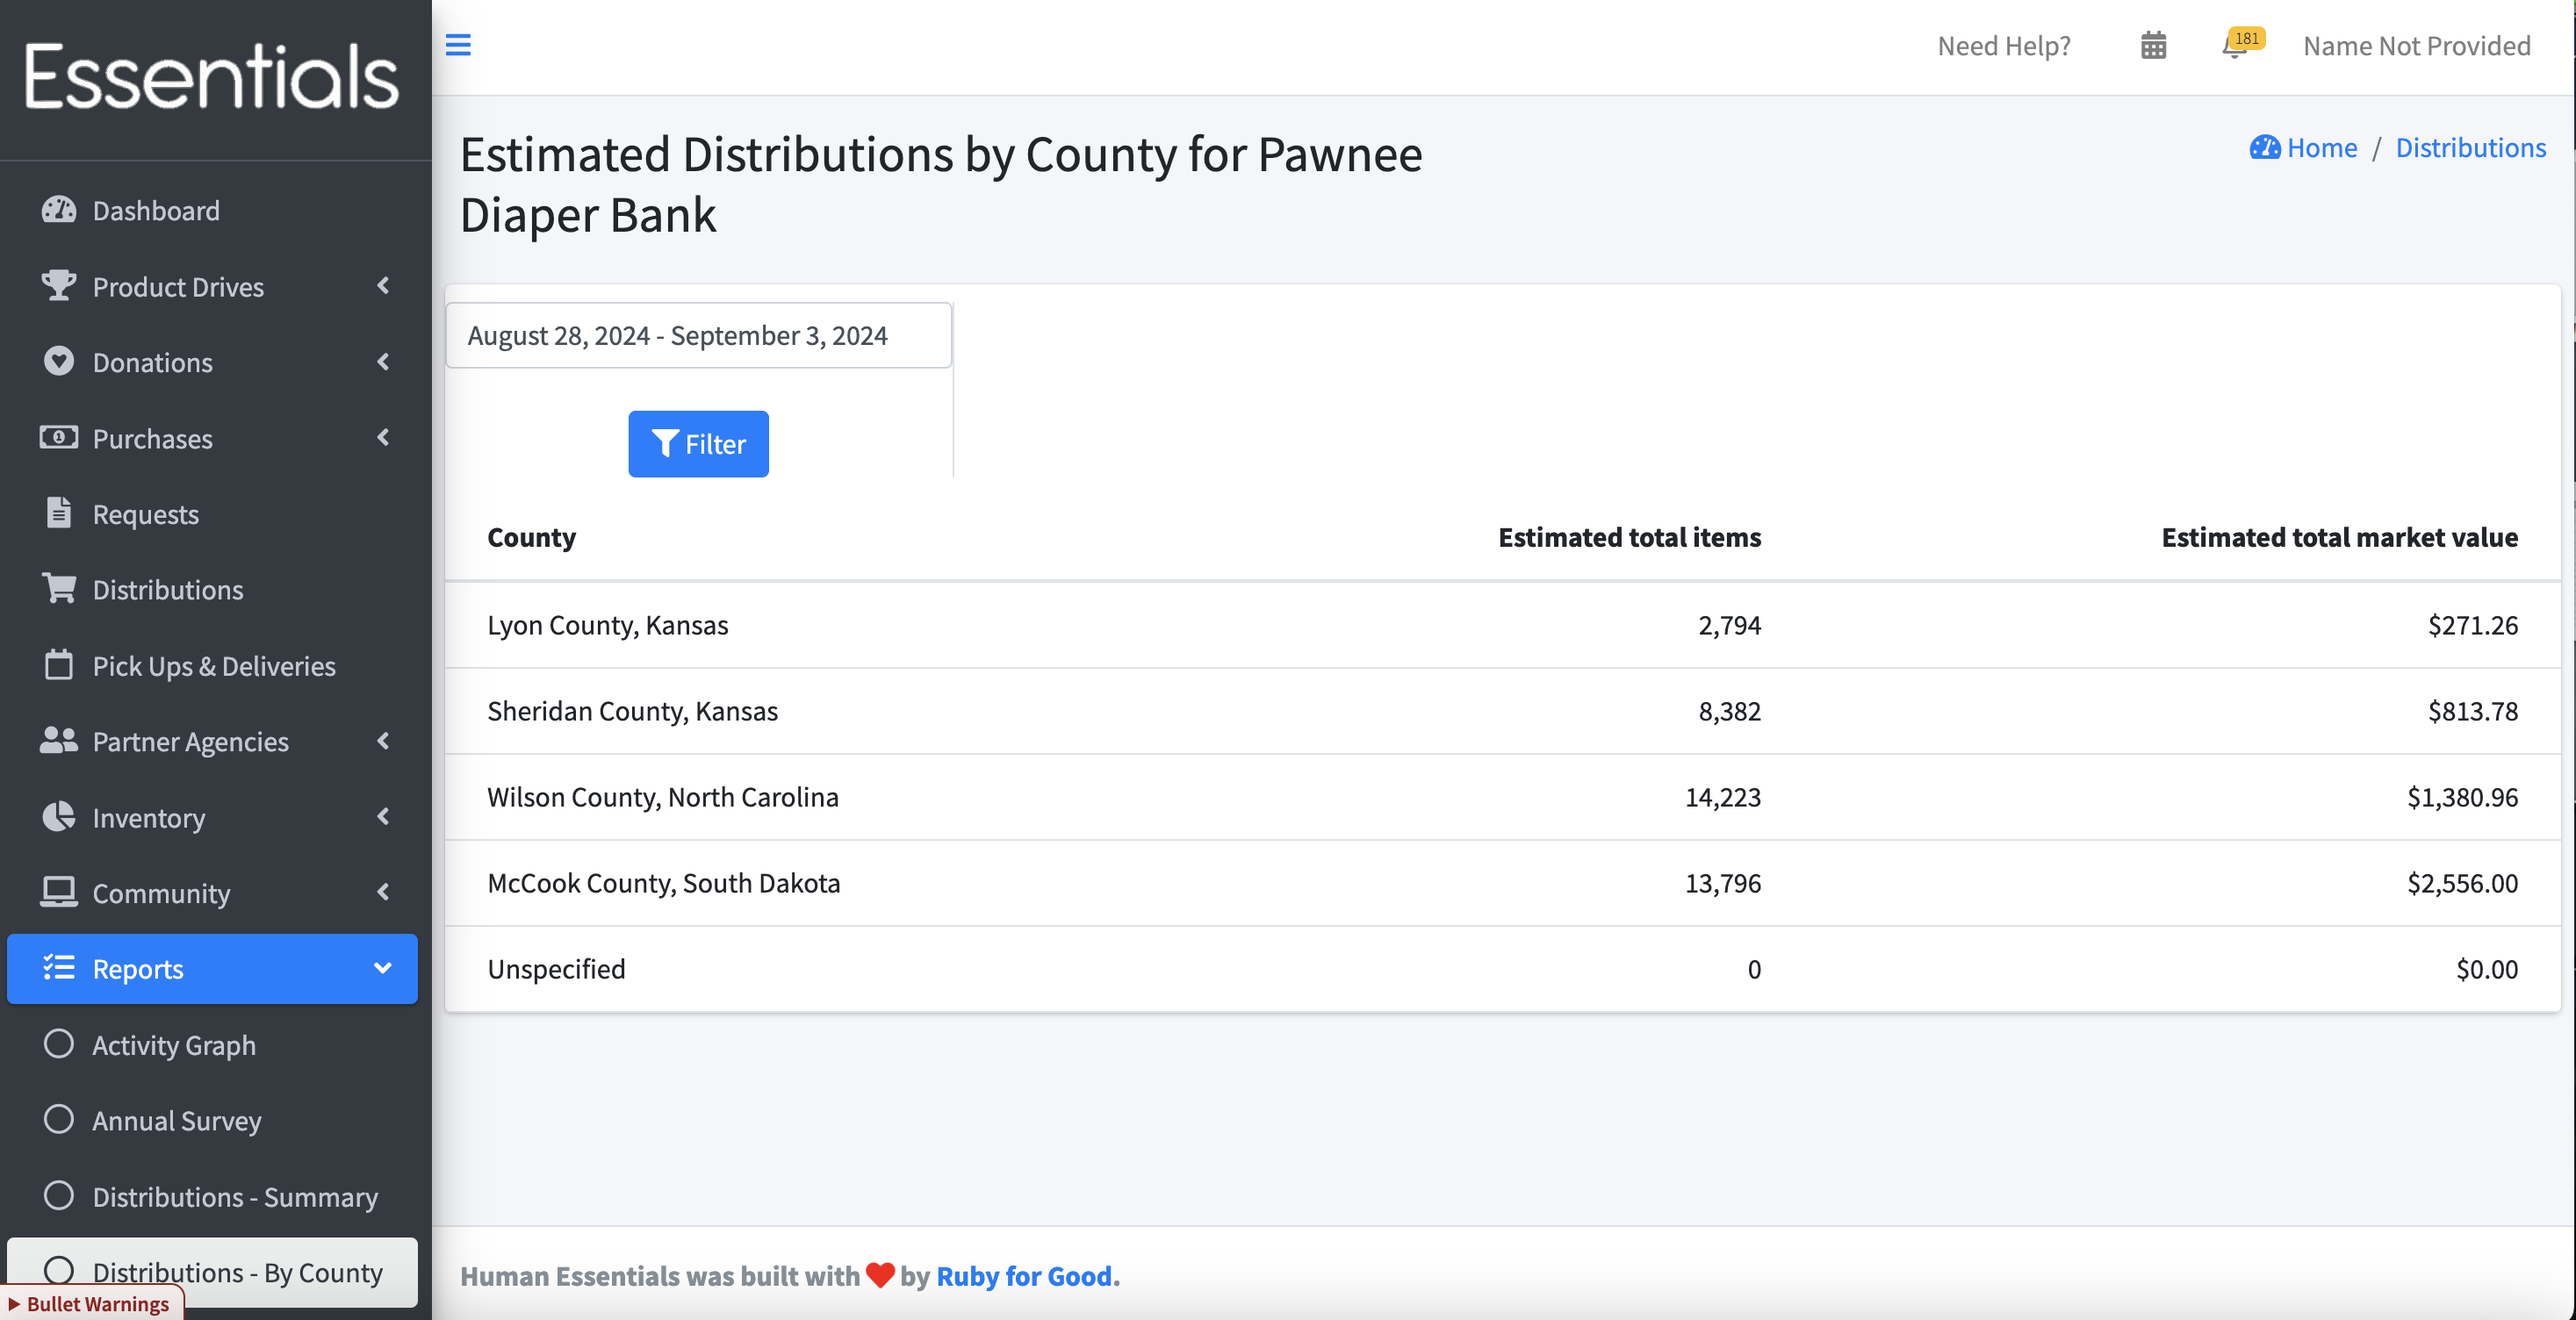
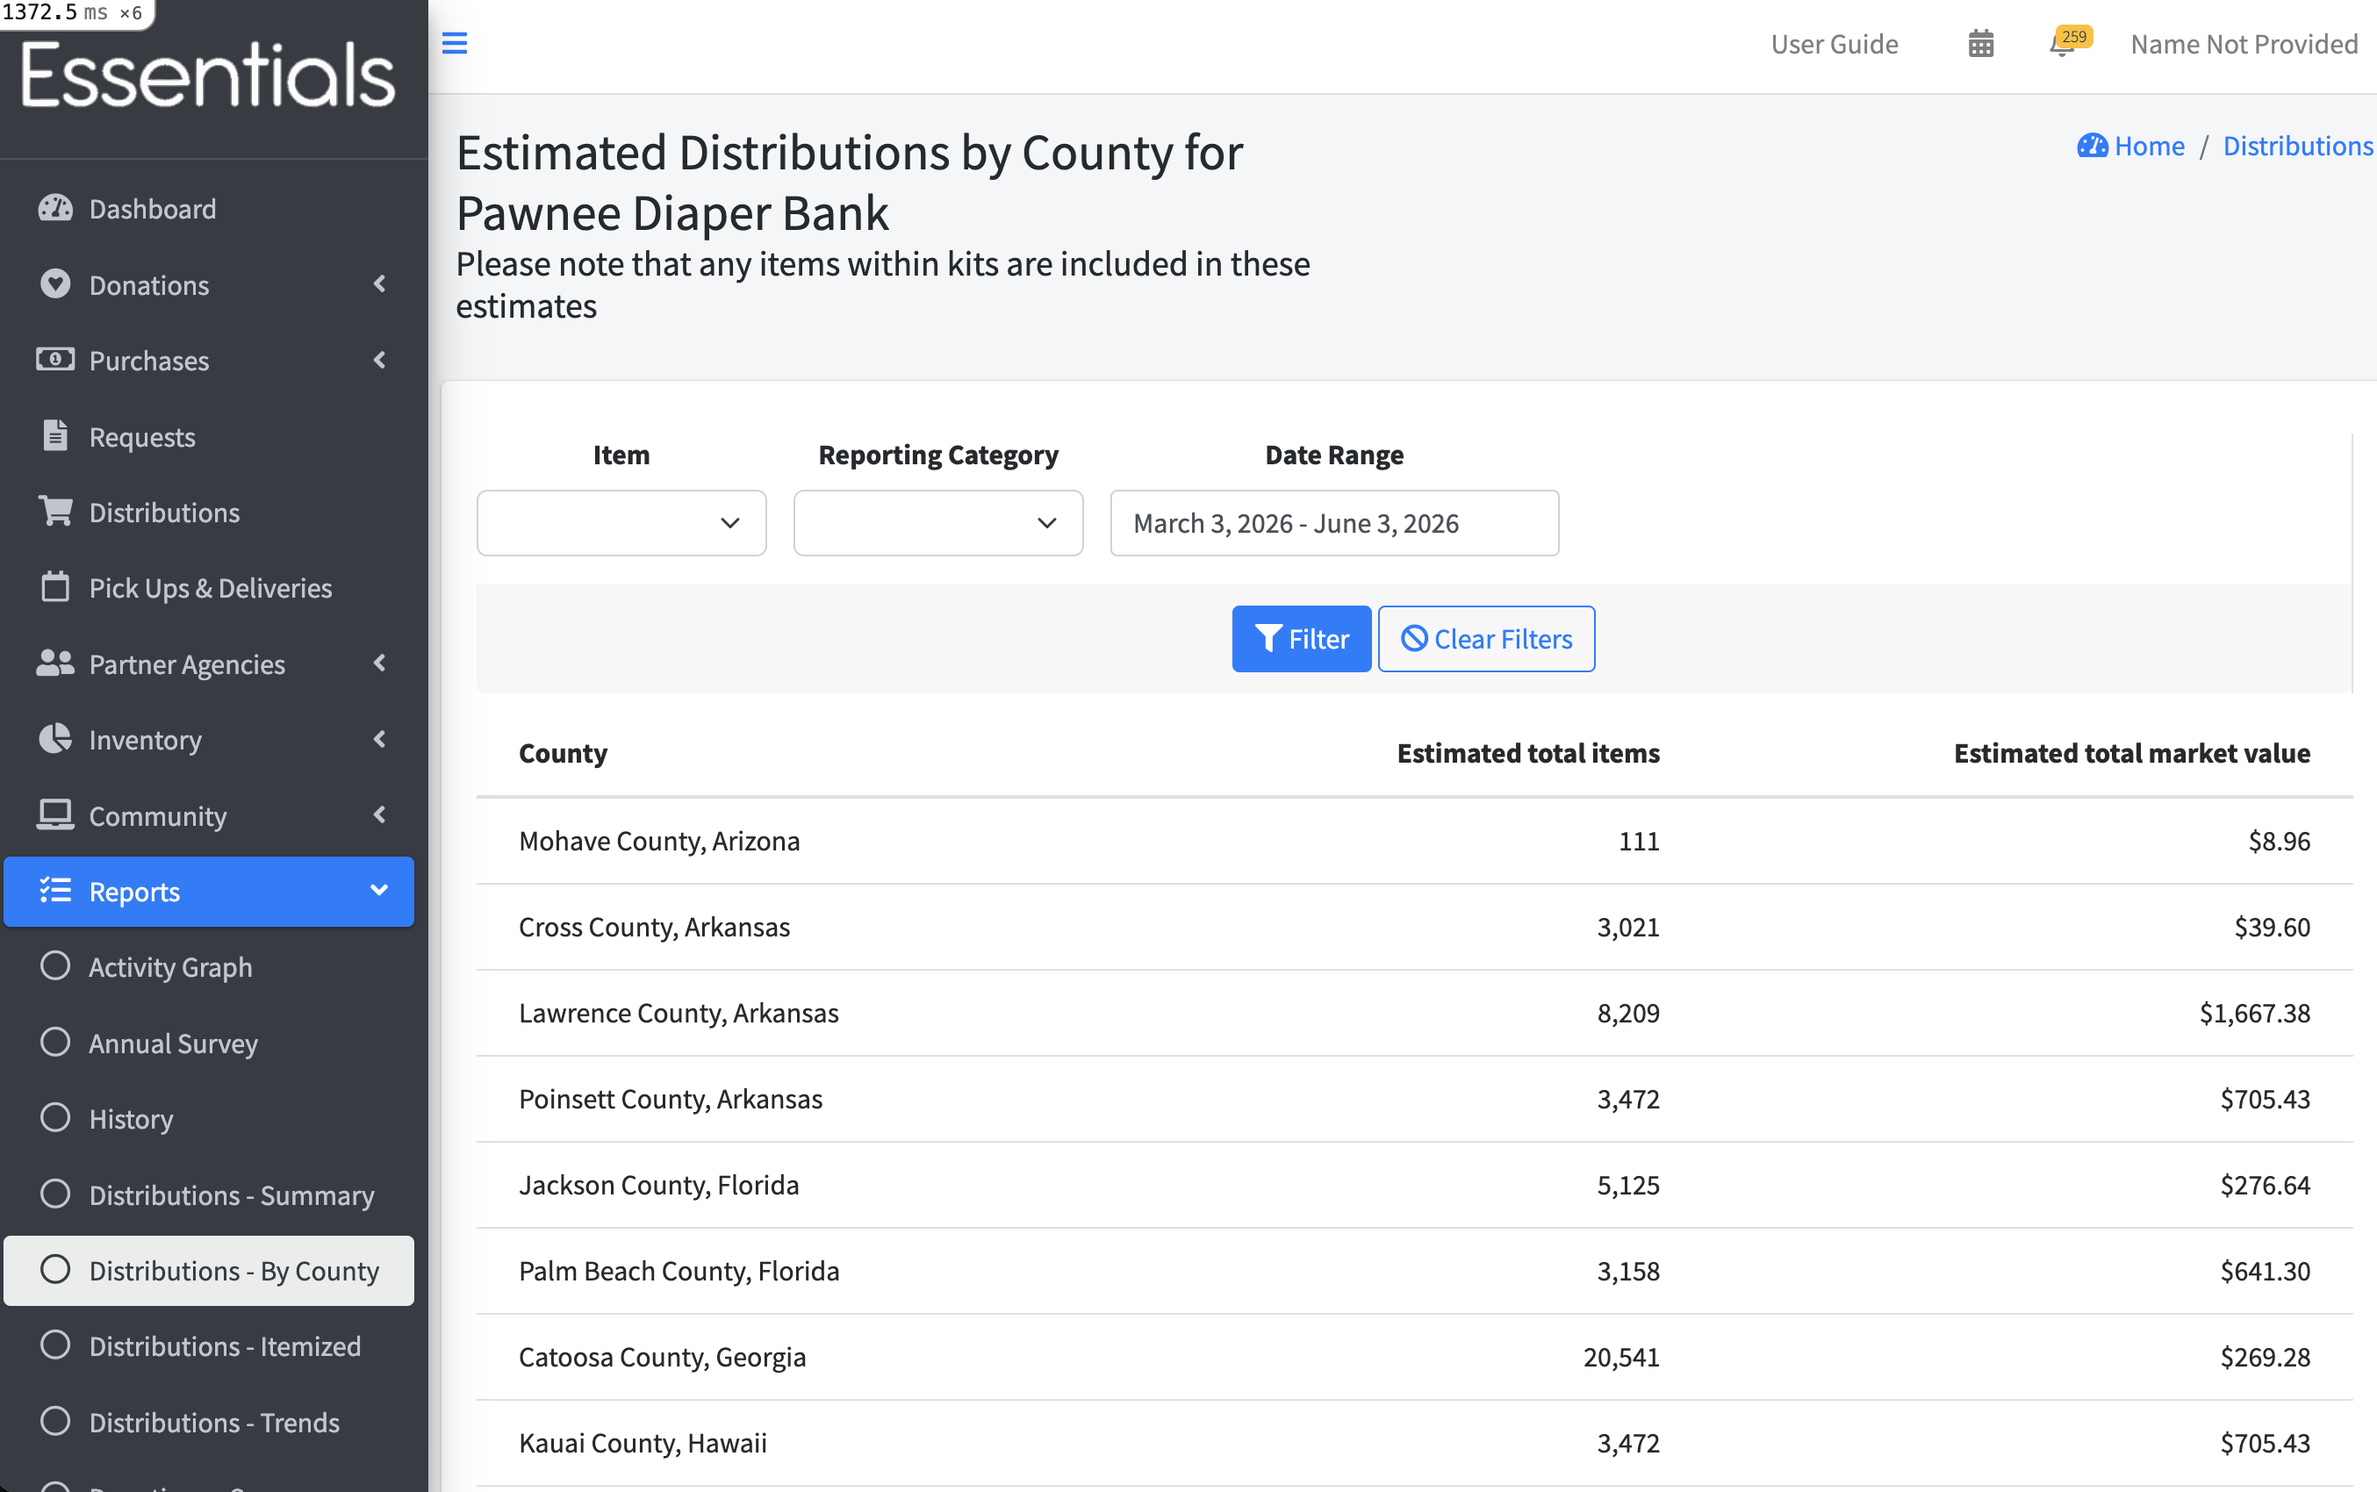
Documentation changes

diff --git a/docs/user_guide/bank/reports_distributions_by_county.md b/docs/user_guide/bank/reports_distributions_by_county.md
@@ -3,16 +3,23 @@
 
 ![distributions_by_county_default_view](images/reports/reports_distributions_by_county_1.png)
 
-This report shows the total items and estimated total market value of the distributed Items for the time period.
+This report initially shows the total items and estimated total market value of the distributed Items for the time period.
 
 We use the area served information entered in each partner's [profile](pm_partner_profiles.md) to allocate the items that have been distributed to them.  If that information has not been provided,  the items you've distributed are put into the 'Unspecified' category.
 
-  
-**N.B.** If you are using Kits, please note that this treats each Kit as an item,  rather than counting the items within the Kits separately.
+**N.B.  If you are using Kits, please note that this counts the items within the kits, rather than the kits.   You can not use this report to determine the number of kits that have been distributed to each county.**
 
 If you want to see a time period other than the default of 60 days prior to 30 days forward from today,  change the date range and click "Filter".  We recommend you use the little pop-up gizmo to enter your date range, as the format of the date range is very fussy.
 
 ![distributions_by_county_with_date_range_gizmo](images/reports/reports_distributions_by_county_2.png)
+
+
+Similarly, you can also filter by a single item,  or by a reporting category, if, for example, you wanted to see distribution of disposable diapers,  you would select "Disposalbe Diapers" from the Reporting Category menu, and then click "Filter"
+
+![distributions_by_county_with_reporting_category_dropdown](images/reports/reports_distributions_by_county_3.png)
+
+
+To go back to the default values,  click "Clear filters".
 
 [Back to Annual Survey](reports_annual_survey.md)
 
